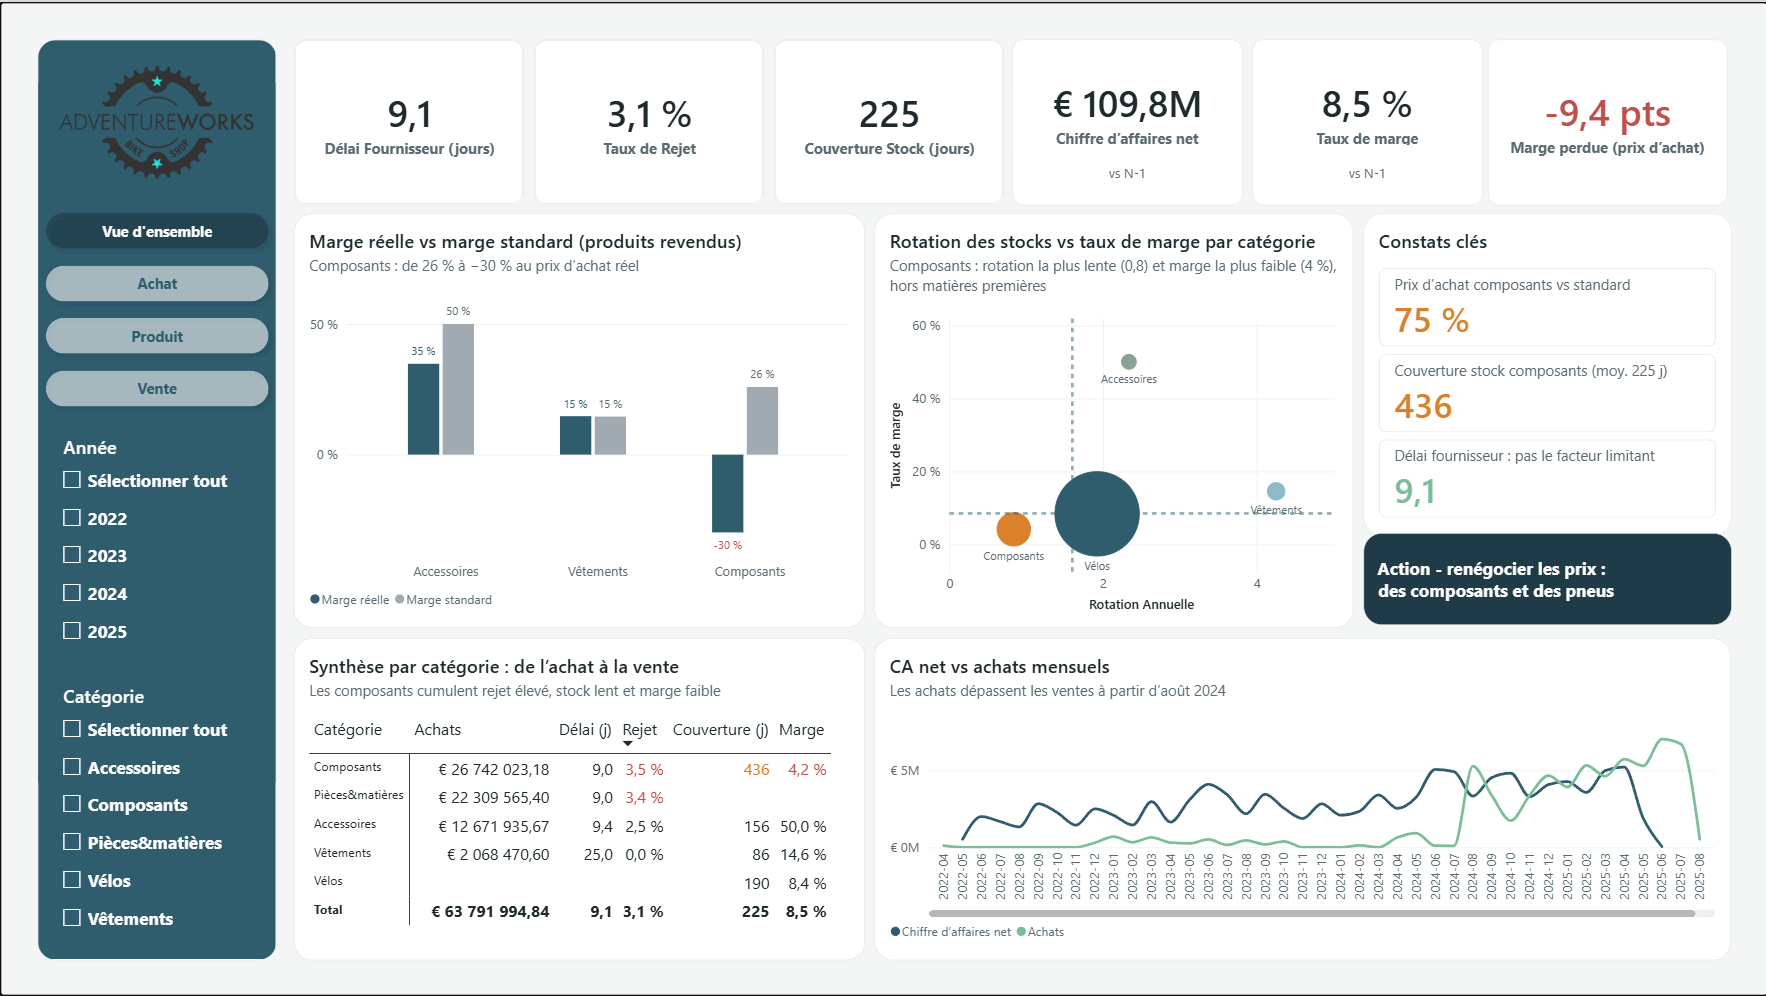
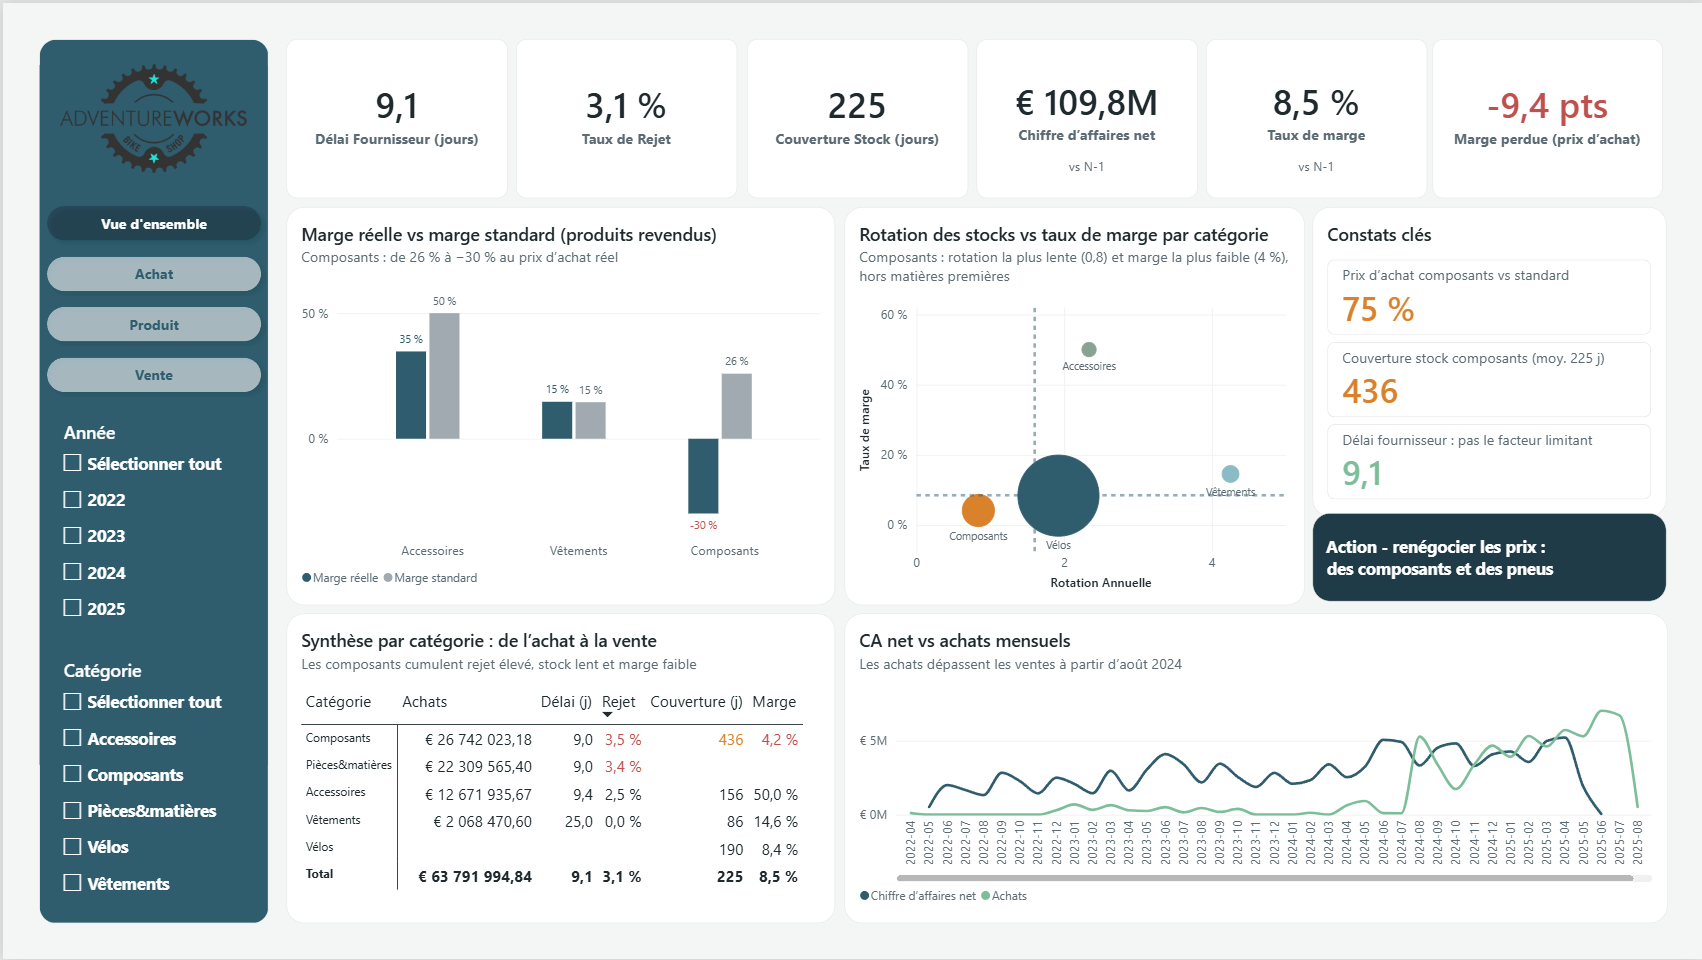
add dashboard link

diff --git a/index.html b/index.html
@@ -95,6 +95,7 @@
   .contact .btns{justify-content:center}
 
   footer{padding:32px 0 48px;color:var(--muted);font-size:14px;text-align:center}
+  footer .legal{max-width:640px;margin:8px auto 0;font-size:12.5px;line-height:1.5;opacity:.85}
   footer button{background:none;border:none;color:var(--teal);cursor:pointer;font:inherit;text-decoration:underline}
 
   /* Modal (dashboards) */
@@ -179,8 +180,7 @@
           </ul>
           <div class="stack"><span>Python</span><span>SQLite</span><span>FastAPI</span><span>scikit-learn</span><span>Power BI</span></div>
           <div class="actions">
-            <!-- À COMPLÉTER : lien « Publier sur le web » Power BI (https://app.powerbi.com/view?r=...) -->
-            <button class="btn btn-primary" data-dashboard="LIEN_POWERBI_ADVENTUREWORKS" data-title="AdventureWorks — Analyse supply chain">Ouvrir le dashboard</button>
+            <button class="btn btn-primary" data-dashboard="https://app.powerbi.com/view?r=eyJrIjoiMDZlNzNhMDMtYmE1NC00NDc3LTgzODktZjYxNDJkMTkwMjMzIiwidCI6IjQ3YTE4ODE2LTIwNDMtNGNkMC04YmY0LWUwYzk0MmQ4YzJkNiIsImMiOjN9" data-title="AdventureWorks — Analyse supply chain">Ouvrir le dashboard</button>
             <a class="btn btn-ghost" href="https://github.com/XiaoqingGdc/adventureworks-supply-chain-analysis" target="_blank" rel="noopener">Code sur GitHub</a>
           </div>
         </div>
@@ -338,7 +338,8 @@
 
 <footer>
   <div class="wrap">
-    © 2026 Xiaoqing Zhou Grandcoing · <button id="cookie-settings">Gérer les cookies</button>
+    © 2026 Xiaoqing Zhou Grandcoing · Tous droits réservés · <button id="cookie-settings">Gérer les cookies</button>
+    <div class="legal">Les textes, analyses et visuels de ce site sont protégés par le droit d'auteur. Toute reproduction ou réutilisation, même partielle, nécessite mon autorisation préalable. Les jeux de données appartiennent à leurs sources respectives.</div>
   </div>
 </footer>
 
